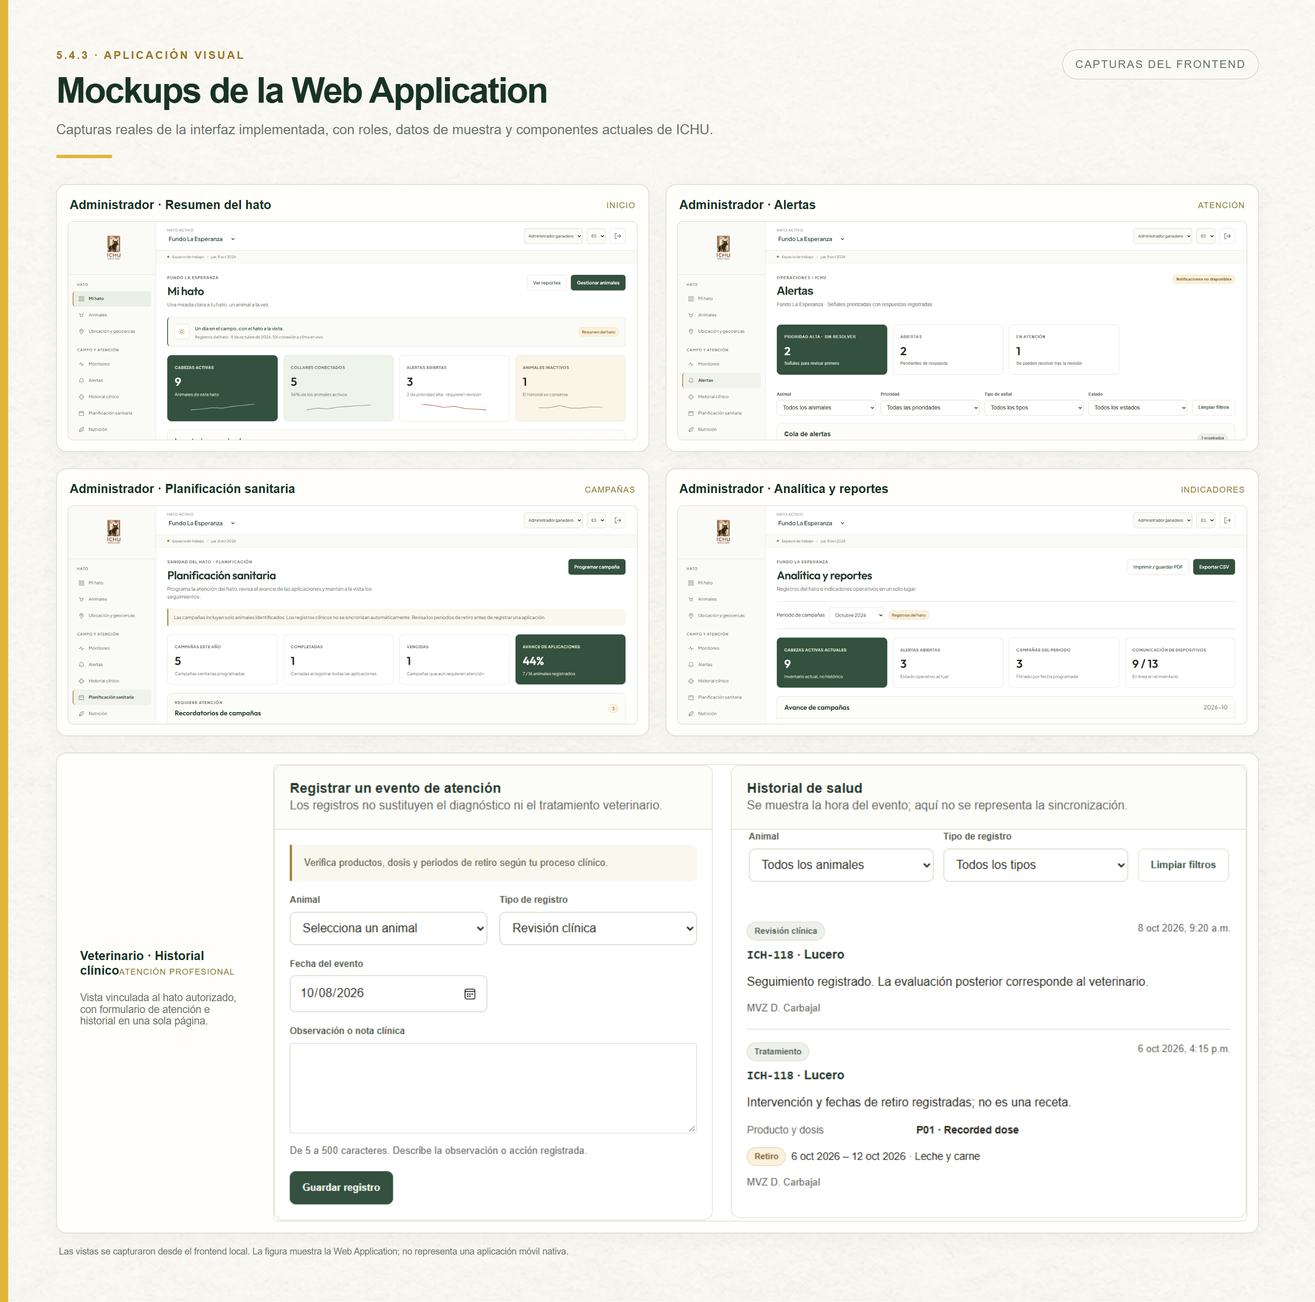
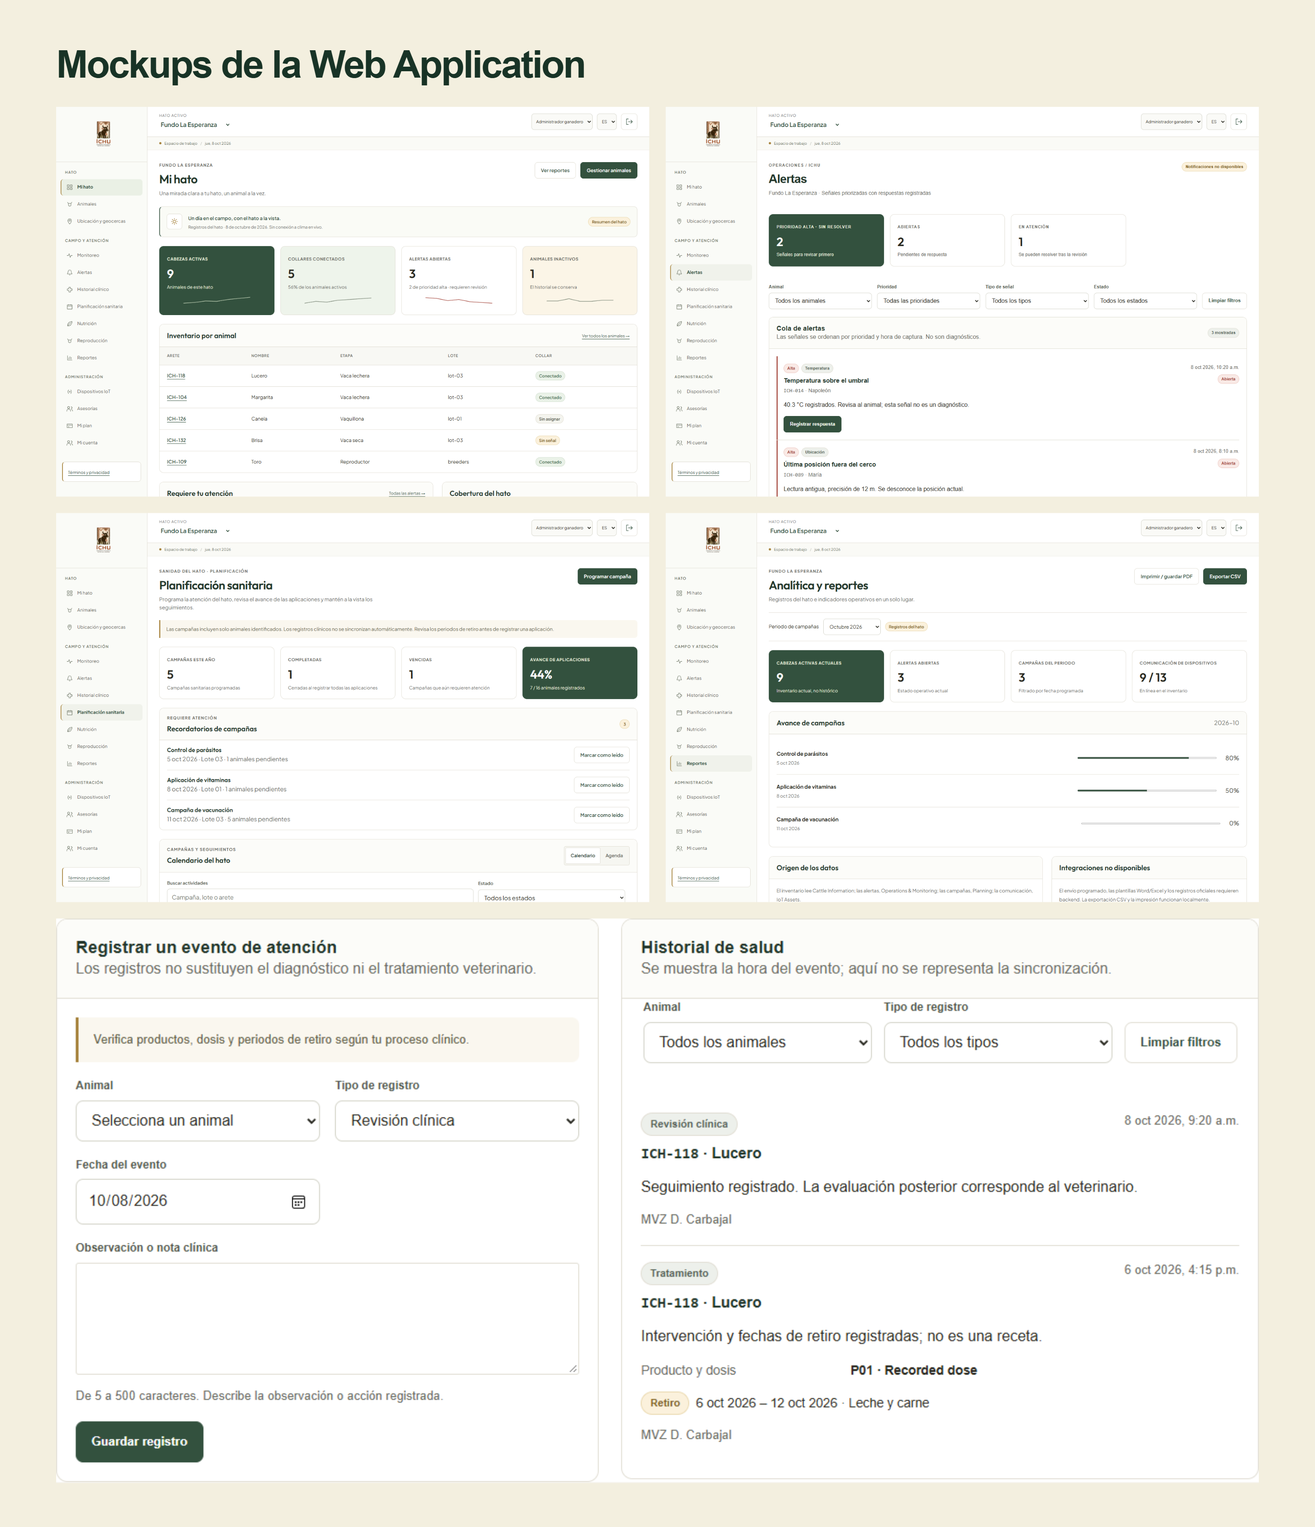
docs(chapter-v): simplify UX figure boards

diff --git a/report/assets/diagram-sources/chapter-v/webapp-ux-figures.html b/report/assets/diagram-sources/chapter-v/webapp-ux-figures.html
@@ -5,25 +5,20 @@
   <meta name="viewport" content="width=device-width, initial-scale=1">
   <title>ICHU · Aplicación web · Figuras UX/UI 5.4</title>
   <style>
-    :root{--forest:#244a37;--deep:#183326;--gold:#e1b638;--cream:#f7f6ef;--paper:#fbfaf5;--ink:#202a23;--muted:#68736b;--line:#dddcd2;--soft:#efeee7;--pale-green:#e9eee6;--red:#b64e43;--blue:#819589}
+    :root{--forest:#244a37;--deep:#183326;--gold:#e1b638;--cream:#f3efdf;--paper:#fbfaf5;--ink:#202a23;--muted:#68736b;--line:#dddcd2;--soft:#efeee7;--pale-green:#e9eee6;--red:#b64e43;--blue:#819589}
     *{box-sizing:border-box}
-    html,body{margin:0;padding:0;background:#e9e7df;color:var(--ink);font-family:"Arial",sans-serif}
-    .figure{position:relative;width:1920px;padding:72px 82px 64px;background:var(--cream) url("../../images/application-screens/ux-board-paper-texture.png") center/cover no-repeat;overflow:hidden}
-    .figure::before{content:"";position:absolute;left:0;top:0;width:12px;height:100%;background:var(--gold)}
-    .figure-head{display:flex;justify-content:space-between;align-items:flex-start;gap:40px;margin-bottom:38px}
-    .kicker{color:#9a7721;font-size:16px;font-weight:700;letter-spacing:.16em;text-transform:uppercase;margin:0 0 14px}
-    .figure-title{font-size:52px;line-height:1.08;letter-spacing:-.04em;color:var(--deep);font-weight:700;margin:0}
-    .figure-subtitle{font-size:20px;line-height:1.5;color:var(--muted);margin:14px 0 0;max-width:1140px}
-    .edition{font-size:16px;letter-spacing:.1em;color:var(--muted);border:1px solid #d4d1c5;border-radius:99px;padding:12px 18px;white-space:nowrap;background:#fbfaf5cc}
-    .accent-rule{width:82px;height:5px;background:var(--gold);border-radius:9px;margin-top:22px}
-    .caption-note{font-size:15px;color:var(--muted);margin-top:20px}
+    html,body{margin:0;padding:0;background:var(--cream);color:var(--ink);font-family:"Arial",sans-serif}
+    .figure{position:relative;width:1920px;padding:64px 82px;background:var(--cream);overflow:hidden}
+    .figure-head{display:block;margin-bottom:32px}
+    .figure-title{font-size:56px;line-height:1.08;letter-spacing:-.04em;color:var(--deep);font-weight:700;margin:0}
+    .kicker,.figure-subtitle,.edition,.accent-rule{display:none}
     /* 5.4.1 · desktop low-fidelity wireframes */
-    #figure-541{min-height:1450px;height:auto}
+    #figure-541{min-height:1400px;height:auto}
     .wireframe-grid{display:grid;grid-template-columns:repeat(3,1fr);gap:26px}
     .wire-card{height:550px;background:#fffefa;border:1px solid #d8d6cc;border-radius:16px;padding:22px;box-shadow:0 6px 18px #273a2a0a}
     .wire-card-head{display:flex;justify-content:space-between;align-items:center;margin-bottom:16px}
     .wire-card-head h2{font-size:22px;color:var(--deep);margin:0}
-    .wire-tag{font-size:13px;letter-spacing:.09em;text-transform:uppercase;color:var(--muted)}
+    .wire-tag{display:none}
     .browser{height:468px;border:1px solid #d7d6cf;border-radius:10px;overflow:hidden;background:#fff}
     .browser-top{height:30px;background:#f0efe9;border-bottom:1px solid #deddd6;display:flex;align-items:center;padding:0 12px;gap:6px}
     .browser-top i{width:7px;height:7px;border-radius:50%;background:#c6c4b9}
@@ -66,7 +61,7 @@
     .wf-login-form .wf-field{margin:11px 0;height:42px}
     .wf-login-form .wf-button{width:100%;margin-top:14px}
     /* shared flow pieces */
-    #figure-542{min-height:1520px;height:auto}
+    #figure-542{min-height:1400px;height:auto}
     .goal-list{display:grid;gap:18px}
     .goal-row{height:275px;display:grid;grid-template-columns:330px 1fr;gap:22px;padding:20px;background:#fffefa;border:1px solid #dedcd2;border-radius:16px}
     .goal-meta{border-right:1px solid #e2e0d7;padding:10px 20px 8px 6px;display:flex;flex-direction:column;justify-content:center}
@@ -86,20 +81,14 @@
     .branch-notes span{font-size:12px;padding:7px 11px;border-radius:99px;background:#f4f1e6;border:1px solid #e4dfcb;color:#59655b}
     .branch-notes span.warn{background:#fbf0e8;border-color:#ead1c2;color:#8c4d3c}
     /* 5.4.3 · actual app screenshots */
-    #figure-543{height:1900px}
+    #figure-543{height:auto;min-height:0}
     .screen-grid{display:grid;grid-template-columns:repeat(2,1fr);gap:24px}
-    .screen-card{background:#fffefa;border:1px solid #d9d7cd;border-radius:15px;padding:16px;box-shadow:0 7px 22px #2034270b}
-    .screen-card.wide{grid-column:1/-1;display:grid;grid-template-columns:280px 1fr;gap:20px;align-items:center}
-    .screen-caption{display:flex;align-items:center;justify-content:space-between;gap:18px;padding:3px 3px 13px}
-    .screen-card.wide .screen-caption{display:block;padding:18px}
-    .screen-caption strong{font-size:18px;color:var(--deep)}
-    .screen-caption span{font-size:12px;color:#8d792f;letter-spacing:.08em;text-transform:uppercase}
-    .screen-card img{width:100%;height:auto;display:block;border:1px solid #e0ded6;border-radius:8px}
-    .screen-card.wide img{width:100%;height:auto;object-fit:contain}
-    .screen-card:not(.wide) img{height:320px;object-fit:cover;object-position:top}
-    .source-note{font-size:13px;color:var(--muted);margin:19px 4px 0}
+    .screen-card{background:transparent;border:0;border-radius:0;padding:0;box-shadow:none;overflow:hidden}
+    .screen-card.wide{grid-column:1/-1;display:block}
+    .screen-card img{width:100%;height:auto;display:block;border:0;border-radius:0}
+    .screen-card:not(.wide) img{height:auto;object-fit:contain;object-position:top}
     /* 5.4.4 · user flows with decision branches */
-    #figure-544{min-height:1700px;height:auto}
+    #figure-544{min-height:1520px;height:auto}
     .user-flow-grid{display:grid;grid-template-columns:repeat(2,1fr);gap:22px}
     .user-flow{height:630px;background:#fffefa;border:1px solid #dcdacf;border-radius:16px;padding:22px 24px;position:relative}
     .user-flow-head{display:flex;justify-content:space-between;gap:18px;align-items:start;border-bottom:1px solid #e6e4dc;padding-bottom:15px;margin-bottom:15px}
@@ -120,7 +109,6 @@
     .branch b{display:block;color:var(--forest);margin-bottom:3px}
     .branch.no b{color:var(--red)}
     .role-note{margin:12px 0 0;padding:10px 12px;border-left:3px solid var(--gold);background:#f5f2e8;border-radius:0 8px 8px 0;color:#5e665d;font-size:12px;line-height:1.45}
-    .legend{display:flex;gap:18px;align-items:center;margin-top:23px;color:var(--muted);font-size:13px}
     .legend i{display:inline-block;width:12px;height:12px;border-radius:3px;margin-right:6px;vertical-align:-2px;background:#edf1e9;border:1px solid #d3decf}
     .legend i.error{background:#fbefea;border-color:#e9d1c8}
     .legend i.decision{background:#f7f0d9;border-color:#d9c77f}
@@ -130,8 +118,7 @@
   <main>
     <section class="figure" id="figure-541" aria-label="Wireframes de la aplicación web ICHU">
       <header class="figure-head">
-        <div><p class="kicker">5.4.1 · Exploración estructural</p><h1 class="figure-title">Wireframes de la Web Application</h1><p class="figure-subtitle">Vistas de escritorio para las tareas del administrador ganadero y del médico veterinario.</p><div class="accent-rule"></div></div>
-        <span class="edition">ICHU · SMARTFARM</span>
+        <h1 class="figure-title">Wireframes de la Web Application</h1>
       </header>
       <div class="wireframe-grid">
         <article class="wire-card"><div class="wire-card-head"><h2>Acceso</h2><span class="wire-tag">Autenticación</span></div><div class="browser"><div class="browser-top"><i></i><i></i><i></i><span class="browser-url">app.ichu.pe / acceso</span></div><div class="wf-login"><div class="wf-login-photo"></div><div class="wf-login-form"><div class="wf-label">ICHU · SMARTFARM</div><div class="wf-title"></div><div class="wf-subtitle"></div><div class="wf-field"><b></b><i></i></div><div class="wf-field"><b></b><i></i></div><div class="wf-button gold"></div><div class="wf-subtitle" style="width:52%;margin-top:15px"></div></div></div></div></article>
@@ -141,13 +128,11 @@
         <article class="wire-card"><div class="wire-card-head"><h2>Planificación sanitaria</h2><span class="wire-tag">Campañas</span></div><div class="browser"><div class="browser-top"><i></i><i></i><i></i><span class="browser-url">app.ichu.pe / planning</span></div><div class="mini-app"><aside class="mini-sidebar"><div class="mini-logo"></div><div class="nav-chip"></div><div class="nav-chip"></div><div class="nav-chip"></div><div class="nav-chip active"></div><div class="nav-chip"></div></aside><div class="mini-content"><div class="wf-label">Sanidad del hato</div><div class="wf-title"></div><div class="wf-subtitle"></div><div class="wf-metrics"><div class="wf-metric"><b></b><span></span></div><div class="wf-metric"><b></b><span></span></div><div class="wf-metric"><b></b><span></span></div><div class="wf-metric"><b></b><span></span></div></div><div class="wf-panel"><div class="wf-panel-title">Recordatorios de campañas</div><div class="wf-row"><span></span><span></span><span></span><span></span></div><div class="wf-row"><span></span><span></span><span></span><span></span></div></div><div class="wf-panel"><div class="wf-panel-title">Calendario del hato</div><div class="wf-row"><span></span><span></span><span></span><span></span></div></div></div></div></div></article>
         <article class="wire-card"><div class="wire-card-head"><h2>Historial clínico</h2><span class="wire-tag">Vista veterinaria</span></div><div class="browser"><div class="browser-top"><i></i><i></i><i></i><span class="browser-url">app.ichu.pe / health</span></div><div class="mini-app"><aside class="mini-sidebar"><div class="mini-logo"></div><div class="nav-chip"></div><div class="nav-chip"></div><div class="nav-chip"></div><div class="nav-chip active"></div><div class="nav-chip"></div></aside><div class="mini-content"><div class="wf-label">Registros de atención / ICHU</div><div class="wf-title"></div><div class="wf-subtitle"></div><div class="wf-metrics" style="grid-template-columns:repeat(3,1fr)"><div class="wf-metric"><b></b><span></span></div><div class="wf-metric"><b></b><span></span></div><div class="wf-metric"><b></b><span></span></div></div><div style="display:grid;grid-template-columns:1fr 1fr;gap:9px"><div class="wf-panel"><div class="wf-panel-title">Registrar atención</div><div class="wf-form"><div class="wf-field"><b></b><i></i></div><div class="wf-field"><b></b><i></i></div><div class="wf-field" style="grid-column:span 2;height:54px"><b></b><i></i></div><div class="wf-button gold"></div></div></div><div class="wf-panel"><div class="wf-panel-title">Historial de salud</div><div class="wf-alert"><span></span><i></i></div><div class="wf-alert"><span></span><i></i></div></div></div></div></div></div></article>
       </div>
-      <p class="caption-note">Baja fidelidad · distribución de contenido para escritorio · sin aplicación móvil nativa.</p>
     </section>
 
     <section class="figure" id="figure-542" aria-label="Wireflows de las tareas priorizadas">
       <header class="figure-head">
-        <div><p class="kicker">5.4.2 · Secuencia de interacción</p><h1 class="figure-title">Wireflows por meta de usuario</h1><p class="figure-subtitle">Acciones principales y respuestas de la interfaz en los recorridos priorizados para la aplicación web.</p><div class="accent-rule"></div></div>
-        <span class="edition">4 RECORRIDOS · WEB</span>
+        <h1 class="figure-title">Wireflows por meta de usuario</h1>
       </header>
       <div class="goal-list">
         <article class="goal-row"><div class="goal-meta"><span class="persona">Cesar Flores · Administrador ganadero</span><h2>Revisar el hato y atender una alerta</h2><span class="story-ids">Historias · US-13, US-16, US-19</span></div><div class="path-area"><div class="path"><div class="step"><div class="step-type">Pantalla</div><strong>Mi hato</strong><small>Resumen y alertas destacadas</small></div><div class="step"><div class="step-type">Pantalla</div><strong>Alertas</strong><small>Filtrar y abrir una señal</small></div><div class="step"><div class="step-type">Acción</div><strong>Registrar respuesta</strong><small>Escribir hallazgo o acción</small></div><div class="step"><div class="step-type">Resultado</div><strong>Alerta atendida</strong><small>Estado y nota quedan registrados</small></div></div><div class="branch-notes"><span>La respuesta válida requiere una nota de 5 a 500 caracteres.</span><span class="warn">Sin coincidencias: limpiar filtros o elegir otro hato.</span></div></div></article>
@@ -155,28 +140,24 @@
         <article class="goal-row"><div class="goal-meta"><span class="persona">Cesar Flores · Administrador ganadero</span><h2>Revisar indicadores y exportar un reporte</h2><span class="story-ids">Historias · US-29, US-31</span></div><div class="path-area"><div class="path"><div class="step"><div class="step-type">Pantalla</div><strong>Reportes</strong><small>Resumen operativo del hato</small></div><div class="step"><div class="step-type">Filtro</div><strong>Periodo</strong><small>Seleccionar mes de campañas</small></div><div class="step"><div class="step-type">Decisión</div><strong>Revisar datos</strong><small>Indicadores y avance por campaña</small></div><div class="step"><div class="step-type">Acción</div><strong>Exportar</strong><small>CSV o impresión / guardar PDF</small></div></div><div class="branch-notes"><span>Los indicadores separan inventario actual de datos por periodo.</span><span class="warn">Si no hay resultados, ajustar el periodo antes de exportar.</span></div></div></article>
         <article class="goal-row"><div class="goal-meta"><span class="persona">Leonardo Rosales · Médico veterinario</span><h2>Consultar un hato autorizado y registrar atención</h2><span class="story-ids">Historias · US-04, US-14, US-23, US-24, US-39</span></div><div class="path-area"><div class="path"><div class="step"><div class="step-type">Acceso</div><strong>Hato autorizado</strong><small>Solo registros vinculados</small></div><div class="step"><div class="step-type">Pantalla</div><strong>Animales</strong><small>Consulta de solo lectura</small></div><div class="step"><div class="step-type">Pantalla</div><strong>Historial clínico</strong><small>Revisar registros existentes</small></div><div class="step"><div class="step-type">Acción</div><strong>Registrar atención</strong><small>Tipo, fecha, observación y datos</small></div><div class="step"><div class="step-type">Resultado</div><strong>Registro guardado</strong><small>Historial actualizado</small></div></div><div class="branch-notes"><span>El permiso se valida en cada operación; ocultar enlaces no basta.</span><span class="warn">Sin autorización: no exponer registros del hato.</span></div></div></article>
       </div>
-      <p class="caption-note">Cada recorrido corresponde a una meta y a las historias de usuario del alcance web indicadas en 5.4.2.</p>
     </section>
 
     <section class="figure" id="figure-543" aria-label="Mockups de alta fidelidad de la aplicación web">
       <header class="figure-head">
-        <div><p class="kicker">5.4.3 · Aplicación visual</p><h1 class="figure-title">Mockups de la Web Application</h1><p class="figure-subtitle">Capturas reales de la interfaz implementada, con roles, datos de muestra y componentes actuales de ICHU.</p><div class="accent-rule"></div></div>
-        <span class="edition">CAPTURAS DEL FRONTEND</span>
+        <h1 class="figure-title">Mockups de la Web Application</h1>
       </header>
       <div class="screen-grid">
-        <article class="screen-card"><div class="screen-caption"><strong>Administrador · Resumen del hato</strong><span>Inicio</span></div><img src="../../images/application-screens/dashboard-admin.png" alt="Captura real del tablero Mi hato para el administrador ganadero"></article>
-        <article class="screen-card"><div class="screen-caption"><strong>Administrador · Alertas</strong><span>Atención</span></div><img src="../../images/application-screens/alerts-admin.png" alt="Captura real de la cola de alertas y las acciones de respuesta"></article>
-        <article class="screen-card"><div class="screen-caption"><strong>Administrador · Planificación sanitaria</strong><span>Campañas</span></div><img src="../../images/application-screens/planning-admin.png" alt="Captura real de la planificación sanitaria y calendario del hato"></article>
-        <article class="screen-card"><div class="screen-caption"><strong>Administrador · Analítica y reportes</strong><span>Indicadores</span></div><img src="../../images/application-screens/reports-admin.png" alt="Captura real de los indicadores, avances y opciones de exportación"></article>
-        <article class="screen-card wide"><div class="screen-caption"><strong>Veterinario · Historial clínico</strong><span>Atención profesional</span><p class="caption-note">Vista vinculada al hato autorizado, con formulario de atención e historial en una sola página.</p></div><img src="../../images/application-screens/clinical-care-layout.png" alt="Captura real del formulario de atención clínica y el historial de salud para el rol veterinario"></article>
+        <article class="screen-card"><img src="../../images/application-screens/dashboard-admin.png" alt="Captura del tablero Mi hato para el administrador ganadero"></article>
+        <article class="screen-card"><img src="../../images/application-screens/alerts-admin.png" alt="Captura de la cola de alertas y las acciones de respuesta"></article>
+        <article class="screen-card"><img src="../../images/application-screens/planning-admin.png" alt="Captura de la planificación sanitaria y calendario del hato"></article>
+        <article class="screen-card"><img src="../../images/application-screens/reports-admin.png" alt="Captura de los indicadores, avances y opciones de exportación"></article>
+        <article class="screen-card wide"><img src="../../images/application-screens/clinical-care-layout.png" alt="Captura del formulario de atención clínica y el historial de salud para el rol veterinario"></article>
       </div>
-      <p class="source-note">Las vistas se capturaron desde el frontend local. La figura muestra la Web Application; no representa una aplicación móvil nativa.</p>
     </section>
 
     <section class="figure" id="figure-544" aria-label="User flows de las tareas priorizadas">
       <header class="figure-head">
-        <div><p class="kicker">5.4.4 · Decisiones y resultados</p><h1 class="figure-title">User Flows de la Web Application</h1><p class="figure-subtitle">Rutas esperadas, controles de acceso y recuperación ante validaciones o ausencia de datos.</p><div class="accent-rule"></div></div>
-        <span class="edition">4 METAS · RUTAS ALTERNATIVAS</span>
+        <h1 class="figure-title">User Flows de la Web Application</h1>
       </header>
       <div class="user-flow-grid">
         <article class="user-flow"><header class="user-flow-head"><h2>Atender una alerta</h2><span>Administrador</span></header><div class="flow-columns"><div class="main-steps"><div class="flow-node start"><b>Mi hato</b><small>Abrir el resumen operativo</small></div><div class="flow-node"><b>Alertas</b><small>Filtrar señales y revisar prioridad</small></div><div class="flow-node"><b>Registrar respuesta</b><small>Documentar el hallazgo o acción</small></div><div class="flow-node"><b>Guardar respuesta</b><small>Actualizar el estado de la alerta</small></div><div class="flow-node success"><b>Confirmación visible</b><small>La respuesta aparece en el registro</small></div></div><aside class="flow-side"><div class="decision">¿Se encontró una alerta?</div><div class="branch no"><b>No</b>Limpiar filtros o elegir otro hato; volver a la cola.</div><div class="decision">¿La nota es válida?</div><div class="branch no"><b>No</b>Mostrar el error junto al campo y conservar lo escrito.</div><div class="branch"><b>Sí</b>Guardar; la transición sigue el estado permitido.</div></aside></div></article>
@@ -184,8 +165,6 @@
         <article class="user-flow"><header class="user-flow-head"><h2>Exportar un reporte</h2><span>Administrador</span></header><div class="flow-columns"><div class="main-steps"><div class="flow-node start"><b>Analítica y reportes</b><small>Consultar indicadores operativos</small></div><div class="flow-node"><b>Seleccionar periodo</b><small>Filtrar las campañas por mes</small></div><div class="flow-node"><b>Revisar resultados</b><small>Inventario, alertas, avance y origen de datos</small></div><div class="flow-node"><b>Elegir salida</b><small>Exportar CSV o imprimir / guardar PDF</small></div><div class="flow-node success"><b>Archivo o impresión</b><small>La acción depende del navegador</small></div></div><aside class="flow-side"><div class="decision">¿Hay datos para el periodo?</div><div class="branch no"><b>No</b>Mostrar estado vacío y permitir elegir otro periodo.</div><div class="branch"><b>Sí</b>Generar CSV local o abrir la impresión del navegador.</div><div class="role-note">Los datos del tablero distinguen el inventario actual de los registros filtrados por periodo.</div></aside></div></article>
         <article class="user-flow"><header class="user-flow-head"><h2>Registrar una atención clínica</h2><span>Médico veterinario</span></header><div class="flow-columns"><div class="main-steps"><div class="flow-node start"><b>Seleccionar hato vinculado</b><small>Contexto permitido para el profesional</small></div><div class="flow-node"><b>Animales · ficha</b><small>Consultar identificación e historial</small></div><div class="flow-node"><b>Historial clínico</b><small>Completar tipo, fecha y observación</small></div><div class="flow-node"><b>Guardar registro</b><small>Validar datos y periodos aplicables</small></div><div class="flow-node success"><b>Historial actualizado</b><small>La intervención queda registrada</small></div></div><aside class="flow-side"><div class="decision">¿El hato está autorizado?</div><div class="branch no"><b>No</b>No mostrar información ni habilitar el registro.</div><div class="decision">¿El formulario es válido?</div><div class="branch no"><b>No</b>Indicar fecha o campos requeridos a corregir.</div><div class="branch"><b>Sí</b>Guardar la atención y reflejarla en el historial.</div></aside></div></article>
       </div>
-      <div class="legend"><span><i></i>Inicio y resultado esperado</span><span><i class="decision"></i>Decisión</span><span><i class="error"></i>Ruta alternativa / validación</span></div>
-      <p class="caption-note">Los recorridos describen la interfaz web y no implican servicios de backend, notificaciones reales ni acceso a un hato no autorizado.</p>
     </section>
   </main>
 </body>
